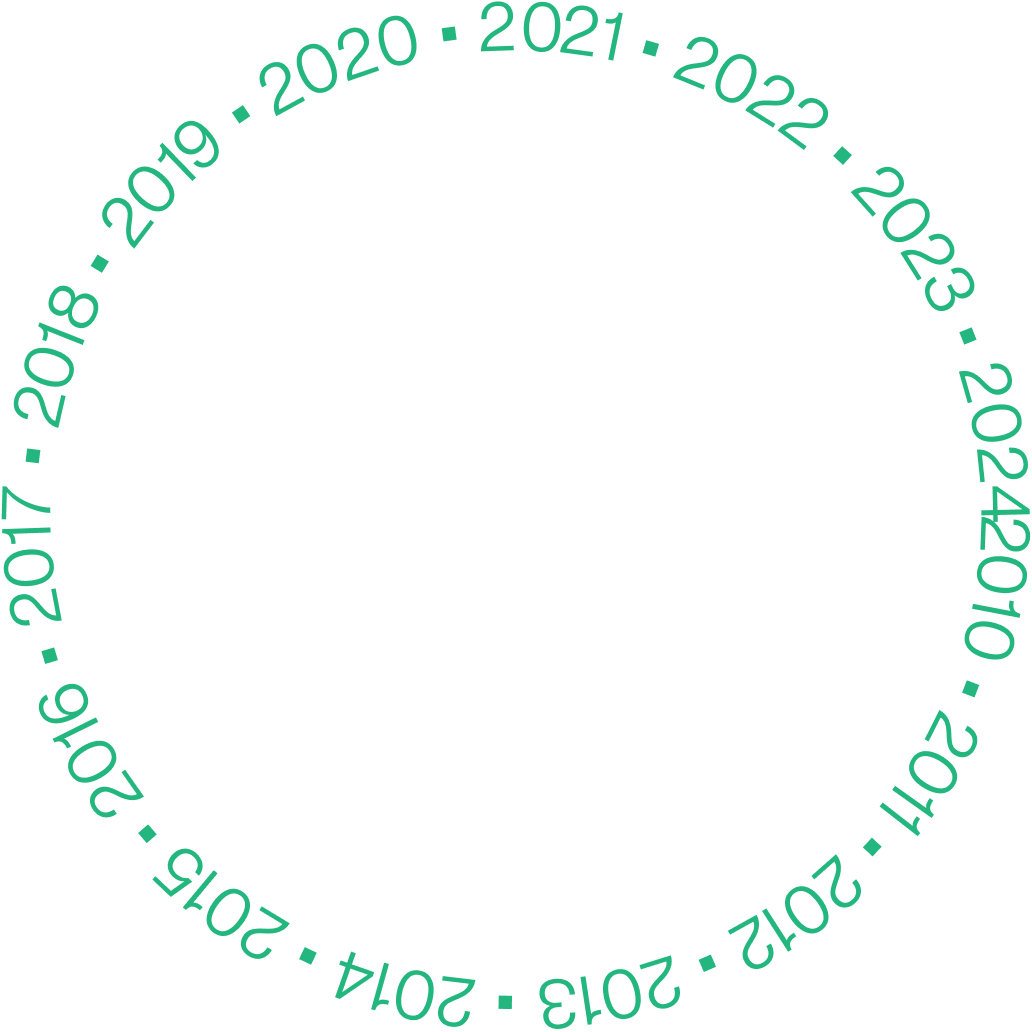
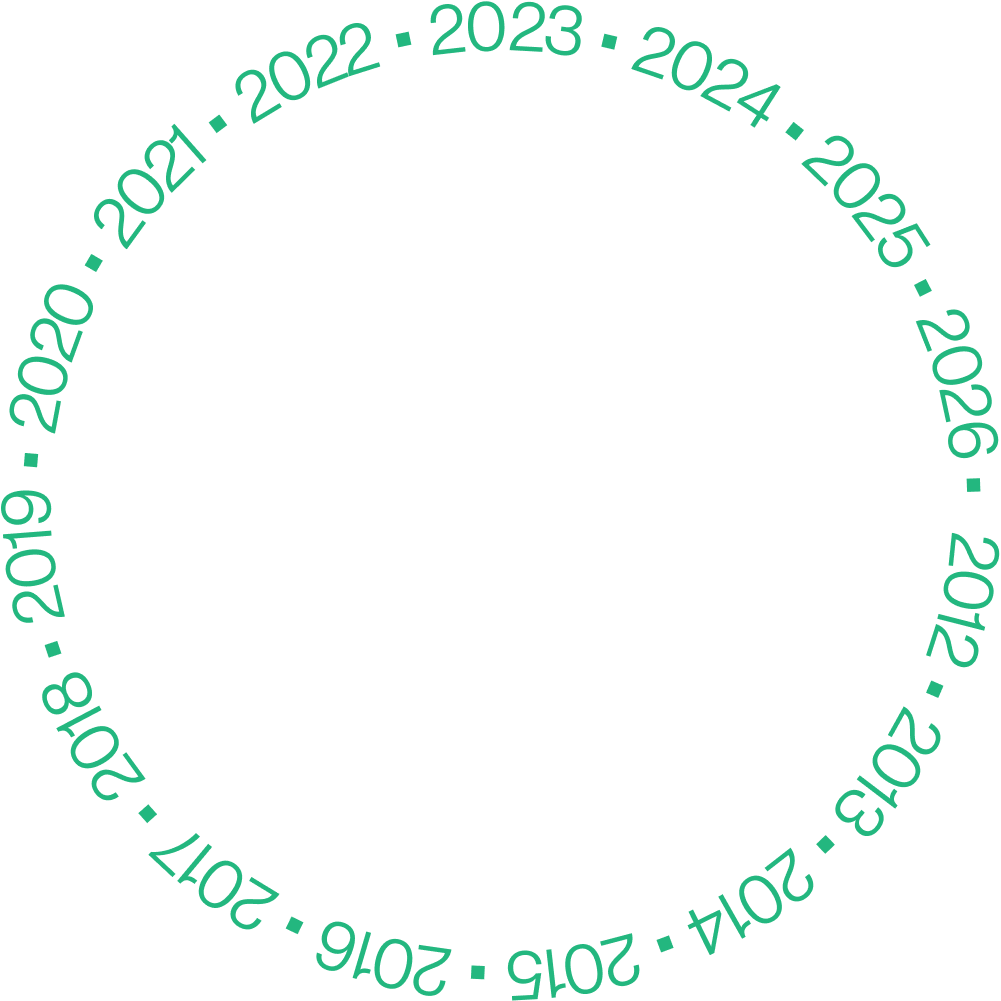
newText

Changed region(s): [[0.0, 0.0, 1.0, 1.0]]

diff --git a/src/pages/MainPage.html b/src/pages/MainPage.html
@@ -245,13 +245,13 @@
     <div class="grid grid-cols-4 text-white">
       <div class="text-center py-12 border-r border-[#2D2D2D] h-full flex flex-col justify-center">
         <div class="text-7xl font-normal mb-2">
-          <span class="counter" data-target="318978">0</span><span class="text-green-400">+</span>
+          <span class="counter" data-target="67978">0</span><span class="text-green-400">+</span>
         </div>
         <div class="text-xl font-normal text-[#BFBFBF]">Деревьев высажено</div>
       </div>
       <div class="text-center py-12 border-r border-[#2D2D2D] h-full flex flex-col justify-center">
         <div class="text-7xl font-normal mb-2">
-          <span class="counter" data-target="4591">0</span><span class="text-green-400">+</span>
+          <span class="counter" data-target="1992">0</span><span class="text-green-400">+</span>
         </div>
         <div class="text-xl font-normal text-[#BFBFBF]">Людей поддержали проект</div>
       </div>
@@ -265,7 +265,7 @@
         <div class="text-7xl font-normal mb-2">
           <span class="counter" data-target="3519937">0</span><span class="text-green-400">+</span>
         </div>
-        <div class="text-xl font-normal text-[#BFBFBF]">Тонн CO₂ снижено</div>
+        <div class="text-xl font-normal text-[#BFBFBF]">Тонн CO₂ очищаем в год</div>
       </div>
     </div>
   </div>
@@ -505,8 +505,7 @@
         </h2>
         
         <p class="text-2xl font-light text-[#3C3C3C] mb-12 leading-relaxed">
-          Нужен подзаголовок относящийся к форме ниже Нужен подзаголовок
-          относящийся к форме ниже Нужен подзаголовок относящийся к форме ниже
+          Но его можно компенсировать — сажая деревья
         </p>
         
         <!-- Форма -->
@@ -543,7 +542,7 @@
 
   <!-- Контент слева -->
   <div class="relative z-10 max-w-[800px] text-white space-y-8 ">
-    <h2 class="text-[84px] max-w-[1000px] mb-[50px] font-light leading-[100%] text-white opacity-20">Что происходит с <br> природой Казахстана</h2>
+    <h2 class="text-[84px] max-w-[1000px] mb-[50px] font-light leading-[100%] text-white opacity-20">Мы уже 10 лет восстанавливаем <br> природу Казахстана</h2>
 
     <div class="space-y-6 max-w-[1000px]">
       <div class="flex items-center justify-between border-b border-white/10 pb-4">
@@ -728,8 +727,8 @@
 
             
             <p class="text-2xl text-[#BFBFBF] font-light mb-8 leading-relaxed">
-              Нужен подзаголовок Нужен подзаголовок Нужен подзаголовок<br>
-              Нужен подзаголовок Нужен подзаголовок
+              Партнёрство, которое работает на репутацию и планету<br>
+              Вместе мы создадим сильные экологические проекты
             </p>
             <button class="bg-[#23B77F] text-white px-8 py-6 h-[80px] rounded-[6px] font-bold text-lg hover:bg-green-600 transition flex items-center justify-center gap-3">
               <img src="../../src/img/deal.svg" alt="">
